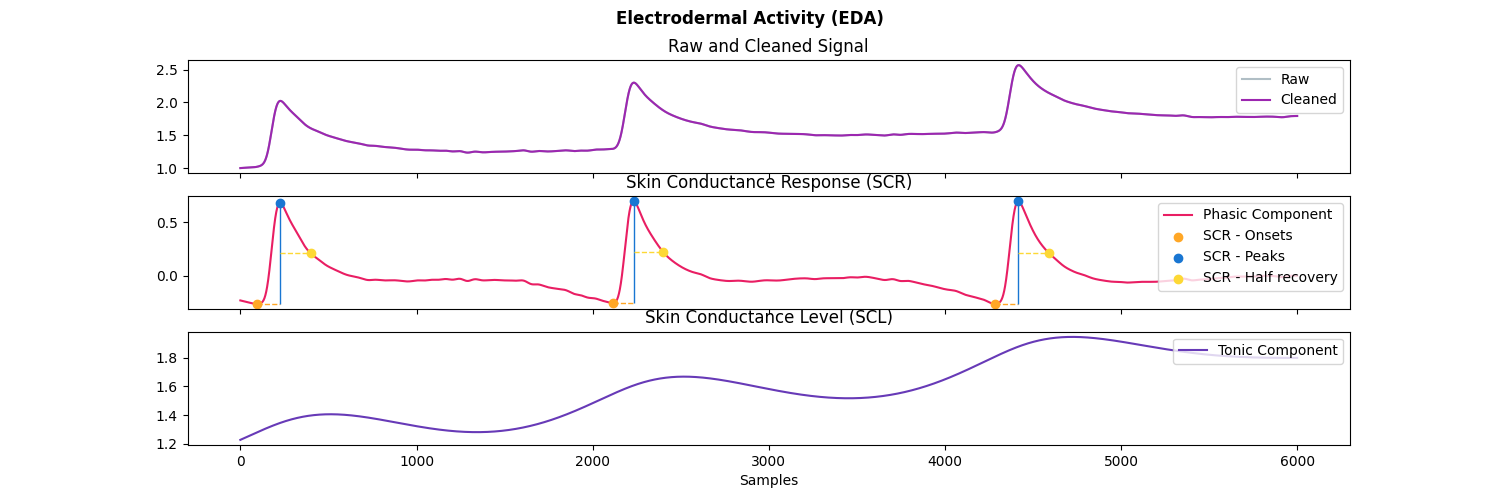
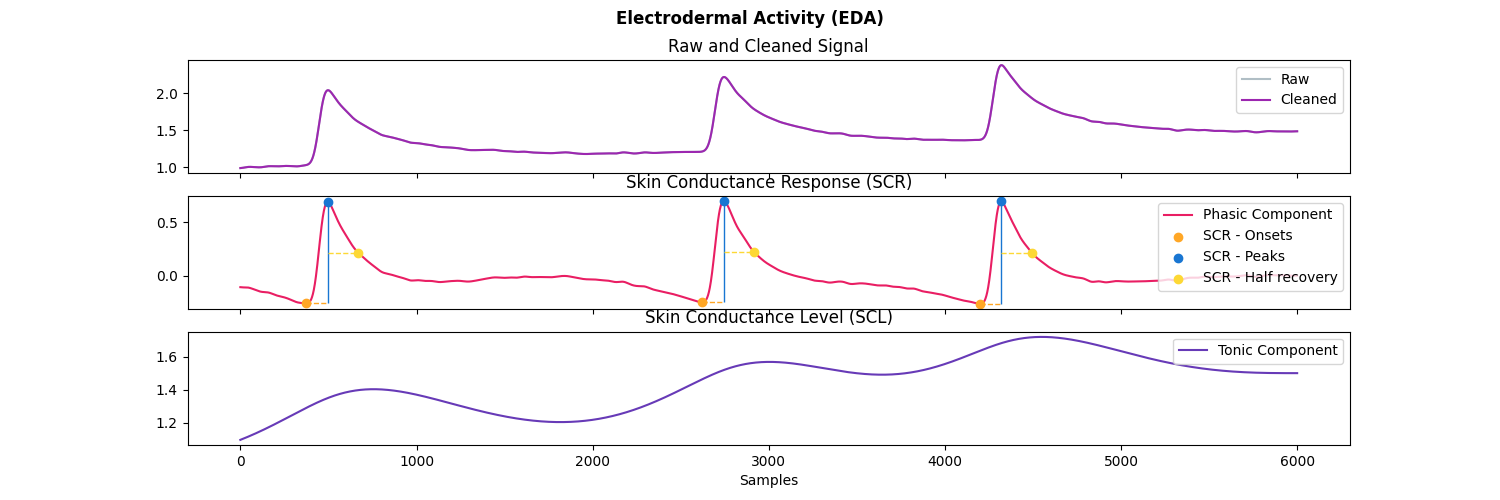
Adding examples

diff --git a/chapters/analysis.tex b/chapters/analysis.tex
@@ -306,6 +306,23 @@ SC = Driver_{tonic} \cdot IRF + Driver_{phasic} \cdot IRF
 
 In order to detect variations of an individual's arousal over a specific time interval, the phasic component obtained by the deconvolution process is generally employed for feature extraction purposes.
 
+The example reported in \ref{fig:eda-example} illustrates:
+
+\begin{itemize}
+    \item A raw EDA signal with duration of 15 seconds depicting an increase in the arousal 
+    \item The subsequently extrapolated SCR component
+    \item The SCL component
+\end{itemize}
+
+\begin{figure}[h]
+    \centering
+    \includegraphics[width=\textwidth]{./images/eda-simulation.png}
+    \caption{Decomposition of Raw EDA signal in its two components}
+    \label{fig:eda-example}
+\end{figure}
+
+The raw signals were generated thorugh NeuroKit2, a Python Toolbox for Neurophysiological Signal Processing that implements several biosignal processing routines, including EDA-related ones \cite{neurokit}.
+
 \subsection{Use Cases}\label{subsec:eda-usecases}
 
 The application of psychophysiological sensors is becoming an increasingly frequent practice in the context of Human Computer Interaction \cite{eda-hci}. More specifically, the Electrodermal Activity may provide a measure to define the level of \textbf{arousal} that characterizes and individual during experimentations and, generally, the usage of specific technologies.
